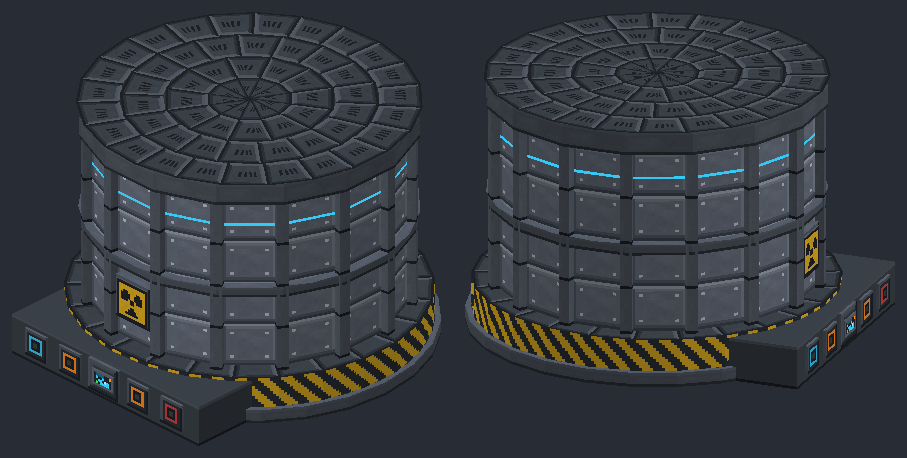
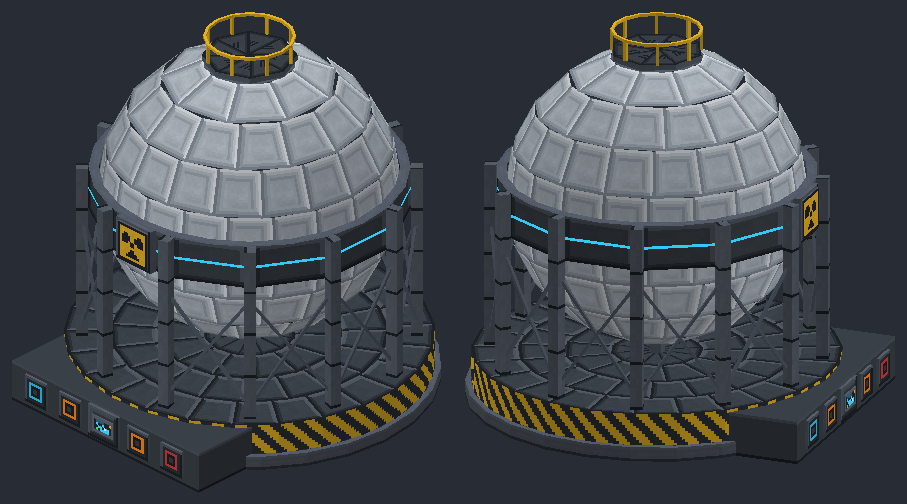
Breeder concept: a steel sphere on braced legs, as Dounreay's fast reactor was housed

diff --git a/art/tools/breeder_concept.py b/art/tools/breeder_concept.py
@@ -1,26 +1,30 @@
 """Concept design of the breeder reactor (design section 9), before the real multiblock exists.
 
-A sodium-cooled fast reactor of the pool type, as most real ones are built: the core sits deep in
-a big round tank of liquid sodium under a thick roof. Sodium is opaque, so unlike the fission
-station there is nothing to see through: this is the sealed, industrial reactor, the station's
-utility twin. For now only the base unit is drawn; what goes on the roof comes next. Drawn as
-smooth quads (quad_design.py) on its own textures (breeder_textures.py). Run:
+A sodium-cooled fast reactor in a steel sphere on legs, as the Dounreay Fast Reactor was housed:
+the core sits in a pool of liquid sodium inside, sealed from the air (sodium burns in it). The
+shape is the refinery's Horton sphere: a sphere of welded plates standing on a ring of legs with
+cross bracing, a girder belt at the equator where the legs meet it, and a railed platform on top.
+Sodium is opaque, so unlike the fission station there is nothing to see through: this is the
+sealed, industrial reactor, the station's utility twin. Drawn as smooth quads (quad_design.py) on
+its own textures (breeder_textures.py). Run:
     python art/tools/breeder_concept.py [OUT.png]
 
-Sizes in blocks: 9 across (centred on the middle of block 4, 4), 5.5 high.
+Sizes in blocks: 9 across (centred on the middle of block 4, 4), about 8 high.
 
-Even textures: every surface shows its texture whole. Panels are sized to their texture (the
-tank's 16 plates meet under its 16 ribs; rings are cut into equal widths), heights are whole
-blocks or have a band texture drawn at their height, and decals (the trefoil, its plaque, the
-bezel) are drawn once at their exact size.
+Even textures: every surface shows its texture whole. The sphere's radius makes each latitude band
+exactly one plate high, and each band has as many plates as keep them near 16 pixels wide, so the
+seams stagger band to band as a welded sphere's do. The belt's panels meet at the legs, heights
+are whole blocks, and decals (the trefoil, its plaque, the bezel) are drawn at their exact size.
 
 What it shows, bottom to top:
 - A graphite plinth with a hazard band, and the console on the front (north), proud of it: as you
   face it, inputs on your left (fuel in, liquid sodium in), outputs on your right (the output port
   for spent fuel and what the blanket bred, energy out), the control core's screen in the middle.
-- The tank (guard vessel): gunmetal plates between ribs, a graphite band, a cyan light strip, and
-  a radiation trefoil on the front.
-- The roof slab: a graphite band round its edge and a deck of plates across its top.
+- Twelve legs from the plinth to the equator, braced in every bay but the front, and a drain line
+  from the sphere's foot to the plinth.
+- The sphere: light casing plates in ten latitude bands, and at its equator a graphite belt with a
+  cyan light strip and the radiation trefoil on the front.
+- A platform on top with a yellow handrail.
 """
 import math
 import os
@@ -34,12 +38,14 @@ from quad_design import Design
 B = 16
 C = 4.5 * B            # centre of the footprint, the middle of block (4, 4)
 PLINTH_R = 62          # the plinth; its lip (2 more) stays behind the console's front
-TANK_R = 54            # the tank (guard vessel) outside
-TANK_TOP = 5 * B       # 80: the tank is four blocks of plates
-ROOF_TOP = TANK_TOP + 8
-ROOF_R = 58
-RIBS = 16
-PHASE = math.radians(360 / RIBS / 2)   # tank seams and ribs sit here, so the front (north) is mid-plate
+BANDS = 10             # latitude bands, pole to pole
+R = BANDS * B / math.pi   # the sphere's radius: each band's arc is exactly one plate (16 pixels)
+EQUATOR = 72           # the equator's height, in the middle of the belt
+BELT = (EQUATOR - 8, EQUATOR + 8)      # the girder belt, a block high
+LEGS = 12
+BELT_R = (R + 1) / math.cos(math.pi / LEGS)   # the belt's corners: flat panels whose middles clear the sphere
+LEG_R = BELT_R + 2     # the legs' circle, on the belt's corners
+PHASE = math.radians(360 / LEGS / 2)   # legs sit on the belt's seams, so the front (north) is mid-panel
 
 TEXTURES = {'breeder_' + name: 'ryzergen:block/breeder/' + name for name in breeder_textures.TEXTURES}
 TEXTURES.update({name: 'ryzergen:block/microreactor/' + name for name in (
@@ -52,13 +58,13 @@ d = Design(C, TEXTURES, {'glow', 'screen'})
 
 
 def band(y, h, r, n=None):
-    """A graphite band `h` high (a lip, a rim), on its own band texture."""
+    """A graphite band `h` high (the plinth's lip), on its own band texture."""
     d.cylinder(f'breeder_band_{h}', y, y + h, r, n=n, v0=0)
 
 
-def plates(mat, y1, y2, r, n=RIBS, phase=PHASE, v0=None):
-    """Like a cylinder, but with `n` panels starting at `phase`: the tank's plates, and the bands
-    that go round it, meet under its ribs."""
+def plates(mat, y1, y2, r, n=LEGS, phase=PHASE, v0=None):
+    """Like a cylinder, but with `n` panels starting at `phase`: the belt's panels meet at the
+    legs."""
     h = y2 - y1
     top = 16 - min(16, h) if v0 is None else v0
     for k in range(n):
@@ -86,25 +92,65 @@ for kind, cell in PORTS:
     else:
         d.box('breeder_fitting', x + 3, 3, FRONT_Z - 1, x + 13, 13, FRONT_Z, decals={'north': kind}, skip=('south',))
 
-# ---------------------------------------------------------------- the tank: a guard vessel round the sodium pool
-for y in range(16, TANK_TOP, B):
-    plates('breeder_vessel', y, y + B, TANK_R)
-# The ribs stand on the plates' seams; the front gap (north) holds the trefoil.
-for k in range(RIBS):
-    d.post('breeder_rib', PHASE + math.radians(k * 360 / RIBS), TANK_R + 1.5, 16, TANK_TOP, 1.5, 2)
-plates('breeder_band_4', 44, 48, TANK_R + 3.2, v0=0)
-d.annulus('breeder_fitting', 48, TANK_R, TANK_R + 3.2)
-d.annulus('breeder_fitting', 44, TANK_R, TANK_R + 3.2, up=False)
-plates('glow', 70, 71, TANK_R + 0.3)
-# The trefoil: a 14 x 14 plaque on a 16 x 16 graphite backing, in the front gap.
-PZ = C - TANK_R - 1
-d.box('breeder_fitting', C - 8, 24, PZ, C + 8, 40, C - TANK_R + 2, decals={'north': 'breeder_plaque'}, skip=('south',))
-d.box('breeder_fitting', C - 7, 25, PZ - 0.5, C + 7, 39, PZ, decals={'north': 'breeder_trefoil'}, skip=('south',))
+# ---------------------------------------------------------------- the sphere, in latitude bands
+def lat_point(lat):
+    """(height, radius from the axis) of the sphere at latitude `lat` (radians)."""
+    return EQUATOR + R * math.sin(lat), R * math.cos(lat)
 
-# ---------------------------------------------------------------- the roof slab
-plates('breeder_band_8', TANK_TOP, ROOF_TOP, ROOF_R, v0=0)
-d.annulus('breeder_deck', ROOF_TOP, 0, ROOF_R, step=ROOF_R / 4)
-d.annulus('breeder_fitting', TANK_TOP, TANK_R, ROOF_R, up=False)
+
+STEP = math.pi / BANDS
+for k in range(1, BANDS - 1):          # the two polar caps are drawn apart
+    lo, hi = -math.pi / 2 + k * STEP, -math.pi / 2 + (k + 1) * STEP
+    (y1, r1), (y2, r2) = lat_point(lo), lat_point(hi)
+    n = max(6, round(2 * math.pi * (r1 + r2) / 2 / B))
+    d.lathe('breeder_shell', [(y1, r1), (y2, r2)], n=n)
+# The caps: under the platform on top, and round the drain at the foot.
+TOP_Y, TOP_R = lat_point(math.pi / 2 - STEP)
+FOOT_Y, FOOT_R = lat_point(-math.pi / 2 + STEP)
+d.lathe('breeder_fitting', [(TOP_Y, TOP_R), (EQUATOR + R, 0)], n=12)
+d.lathe('breeder_fitting', [(EQUATOR - R, 0), (FOOT_Y, FOOT_R)], n=12)
+
+# ---------------------------------------------------------------- the girder belt round the equator
+belt_r = BELT_R
+plates('breeder_plinth', BELT[0], BELT[1], belt_r, n=LEGS)
+for y, up in ((BELT[1], True), (BELT[0], False)):
+    inner = lat_point(math.asin((y - EQUATOR) / R))[1]
+    d.annulus('breeder_fitting', y, inner, belt_r, up=up, n=LEGS * 2)
+plates('glow', EQUATOR - 0.5, EQUATOR + 0.5, belt_r + 0.1, n=LEGS)
+# The trefoil: a 14 x 14 plaque on a 16 x 16 graphite backing, on the belt's front panel.
+PZ = C - belt_r - 1
+d.box('breeder_fitting', C - 8, BELT[0], PZ, C + 8, BELT[1], C - belt_r + 3, decals={'north': 'breeder_plaque'}, skip=('south',))
+d.box('breeder_fitting', C - 7, BELT[0] + 1, PZ - 0.5, C + 7, BELT[1] - 1, PZ, decals={'north': 'breeder_trefoil'}, skip=('south',))
+
+# ---------------------------------------------------------------- legs and bracing
+LEG_TOP = BELT[1]
+for k in range(LEGS):
+    phi = PHASE + 2 * math.pi * k / LEGS
+    d.post('breeder_rib', phi, LEG_R, 16, LEG_TOP, 2, 2)
+# Cross bracing in each bay below the belt, thin rods corner to corner; the front bay (north, 270
+# degrees) is left open, so the console and the trefoil stay clear.
+BRACE = (20, BELT[0] - 4)
+for k in range(LEGS):
+    a, b = PHASE + 2 * math.pi * k / LEGS, PHASE + 2 * math.pi * (k + 1) / LEGS
+    if abs(math.degrees((a + b) / 2) % 360 - 270) < 1:
+        continue
+    mid = (a + b) / 2
+    across = (math.cos(mid), 0, math.sin(mid))
+    for (ya, yb) in ((BRACE[0], BRACE[1]), (BRACE[1], BRACE[0])):
+        path = [d.at(a, LEG_R, ya), d.at(b, LEG_R, yb)]
+        d.sweep('breeder_fitting', path, 0.5, 0.5, lambda i, v=across: v, closed=False, caps=True)
+# The drain line from the sphere's foot to the plinth.
+d.cylinder('breeder_fitting', 16, EQUATOR - R + 1, 3, n=8)
+
+# ---------------------------------------------------------------- the platform on top, with a handrail
+PLAT_R = 16
+PLAT_Y = EQUATOR + R
+d.disc('breeder_deck', PLAT_Y - 2, PLAT_Y, PLAT_R, sides='breeder_fitting', n=8)
+for k in range(8):
+    phi = 2 * math.pi * (k + 0.5) / 8
+    d.post('breeder_rail', phi, PLAT_R - 1, PLAT_Y, PLAT_Y + 7, 0.5, 0.5)
+ring = [d.at(2 * math.pi * k / 16, PLAT_R - 1, PLAT_Y + 7) for k in range(16)]
+d.sweep('breeder_rail', ring, 0.5, 0.5, lambda i: (0, 1, 0))
 
 
 # ---------------------------------------------------------------- picture

diff --git a/art/tools/breeder_textures.py b/art/tools/breeder_textures.py
@@ -2,12 +2,12 @@
 
 Drawn to the house style, and even: every texture is drawn for the shape it goes on, so each
 surface shows it whole, never a plate cut at an edge or squeezed out of shape.
-- Big faces (the tank, the deck, the plinth) are one framed plate per panel: lit along the top
-  and left, shaded at the foot and right. The concept sizes those panels to match: the tank's
-  seams sit under its ribs, and every ring is cut into equal widths.
-- Narrow parts (the ribs) have textures that read the same however narrow the face.
-- Bands shorter than a block (the plinth's lip, the roof's rim) have a texture drawn at their
-  height, band_<h>.
+- Big faces (the sphere, the belt, the deck, the plinth) are one framed plate per panel: lit
+  along the top and left, shaded at the foot and right. The concept sizes those panels to match:
+  each of the sphere's latitude bands is one plate high, and every ring is cut into equal widths.
+- Narrow parts (the legs, the bracing, the handrail) have textures that read the same however
+  narrow the face.
+- Bands shorter than a block (the plinth's lip) have a texture drawn at their height, band_<h>.
 - Decals (the trefoil, the plaque, the bezel) are drawn at their exact size.
 Fills get the soft surface finish (pixelart.publish_finished); lit textures stay crisp.
 
@@ -38,17 +38,17 @@ def plate(fill, lit, lit2, shade, shade2, w=16, h=16):
 
 
 # ---------------------------------------------------------------- big faces: one plate per panel
-def vessel():
-    """The guard vessel's plates, one per rib gap: mid gunmetal, the reactor vessel colour of the
-    house style, with a bolt head in each corner."""
-    t = plate('s', 'h', 'L', 'u', 'z')
-    for x, y in ((3, 3), (12, 3), (3, 12), (12, 12)):
-        t.set(x, y, 'H')
+def shell():
+    """The sphere's plates: light casing, as spheres like it are painted, a framed plate per
+    panel with a shallow inset, lit along the top and left."""
+    t = plate('F', 'A', 'E', 'I', 'J')
+    t.rect(3, 3, 12, 3, 'I')
+    t.rect(3, 3, 3, 12, 'I')
     return t
 
 
 def deck():
-    """The roof slab's deck plates: graphite, with a row of grating slots across the middle."""
+    """The platform's deck plates: graphite, with a row of grating slots across the middle."""
     t = plate('S', 'M', 'b', 'T', 'U')
     for x in range(4, 12, 2):
         t.rect(x, 6, x, 9, 'U')
@@ -62,8 +62,8 @@ def plinth():
 
 # ---------------------------------------------------------------- narrow parts and bands
 def rib():
-    """An upright rib on the tank, a few pixels wide: lit edge, face, shadowed edge across it (so
-    each face of the rib reads the same), and a joint at each block of height."""
+    """A leg, a few pixels wide: lit edge, face, shadowed edge across it (so each face of the leg
+    reads the same), and a joint at each block of height."""
     t = Tex()
     for x in range(16):
         t.rect(x, 0, x, 15, 'M' if x < 5 else 'b' if x < 11 else 'T')
@@ -76,6 +76,13 @@ def fitting():
     size shows it evenly."""
     t = Tex()
     t.rect(0, 0, 15, 15, 'u')
+    return t
+
+
+def rail():
+    """The platform's handrail and posts: safety yellow, plain, so any length shows it evenly."""
+    t = Tex()
+    t.rect(0, 0, 15, 15, 'Y')
     return t
 
 
@@ -120,14 +127,15 @@ def bezel():
     return plate('S', 'M', 'b', 'T', 'U', 14, 12)
 
 
-BANDS = (4, 5, 8)
+BANDS = (5,)
 
 TEXTURES = {
-    'vessel': vessel,
+    'shell': shell,
     'deck': deck,
     'plinth': plinth,
     'rib': rib,
     'fitting': fitting,
+    'rail': rail,
     'trefoil': trefoil,
     'plaque': plaque,
     'bezel': bezel,

diff --git a/docs/DESIGN.md b/docs/DESIGN.md
@@ -382,11 +382,14 @@ Real basis: every pass through a thermal reactor builds up heavier plutonium iso
 6. **Spent breeder fuel closes the loop:** it goes back through the pyroprocessor into transuranic metal and fission waste, so a breeder can keep itself fuelled once started. Real basis: fast reactor fuel cycles are designed to close this way (settled 30 Sep 2026).
 
 ### Shape (concept, 30 Sep 2026)
-Concept in `art/tools/breeder_concept.py` (textures `breeder_textures.py`, render `art/concepts/breeder.png`). A pool-type sodium fast reactor, as most real ones are built: 9 blocks across. The base unit is drawn (5.5 blocks high); what stands on its roof is designed next, building up from it. A first pass at the roof (rotating plugs, control rod drives, pumps, heat exchangers and pipes, with moving parts) was set aside on 30 Sep 2026 to start again from the base; it is in git history if any of it comes back.
-- **Sealed, not seen through.** The core sits deep in a round tank of liquid sodium, which is opaque, so there is no glass: the station is the reactor you watch, the breeder the one you run. A gunmetal guard vessel of 16 plates with a rib on every seam, a graphite band, a cyan light strip and a radiation trefoil on the front (multiblocks may carry one).
-- **The roof slab:** a graphite rim and a deck of plates, ready for the machinery that works the reactor, which real pool-type plants carry on the roof.
+Concept in `art/tools/breeder_concept.py` (textures `breeder_textures.py`, render `art/concepts/breeder.png`). 9 blocks across and about 8 high.
+- **A steel sphere on legs.** Real basis: the Dounreay Fast Reactor, a sodium-cooled fast breeder, was housed in a great steel sphere, and the shape is the refinery's Horton sphere: welded plates standing on a ring of legs with cross bracing. The core sits in a pool of liquid sodium inside, sealed from the air.
+- **Sealed, not seen through.** Sodium is opaque, so there is no glass: the station is the reactor you watch, the breeder the one you run. Light casing plates in ten latitude bands, their seams staggered band to band as a welded sphere's are.
+- **The girder belt** at the equator, where the 12 legs meet the sphere: graphite, with a cyan light strip and the radiation trefoil on the front (multiblocks may carry one). The legs are braced in every bay but the front, which stays open so the console and trefoil read.
+- **A railed platform on top** (a yellow handrail), and a drain line from the sphere's foot to the plinth.
 - **The console** on the front, proud of the plinth: as you face it, fuel in and liquid sodium in on the left, the output port (spent fuel and what the blanket bred) and energy out on the right, the control core's screen in the middle.
-- **Even textures:** every panel sized to its texture, heights in whole blocks or on band textures drawn at their height, decals at their exact size.
+- **Even textures:** the sphere's radius makes each latitude band exactly one plate high, each band has as many plates as keep them near 16 pixels wide, the belt's panels meet at the legs, and decals are drawn at their exact size.
+- Earlier passes (a round tank with its machinery on the roof, then the tank alone) were set aside on 30 Sep 2026; they are in git history.
 
 ### How the tiers tie together
 - Uranium station: uranium rods become spent rods, which reprocess into plutonium for MOX.

diff --git a/docs/ROADMAP.md b/docs/ROADMAP.md
@@ -135,8 +135,8 @@ The first public build: the microreactor, home battery, pipes and steam, the fue
 ## Milestone 3b: Breeder reactor (tier 4, design section 9)
 The utility reactor: fuel for the stations and the tritium that starts fusion. Fusion needs it.
 - [x] Settle the breeder's open questions (30 Sep 2026): the blanket is a ring in the planning grid; spent breeder fuel closes the loop; sodium is an ingot and a liquid coolant; tritium is a gas; the pyroprocessor is the Electrorefiner; americium and curium stay in transuranic metal
-- [x] Concept, base unit (`art/tools/breeder_concept.py`, textures `breeder_textures.py`): a sealed pool-type tank 9 across, the console proud of the plinth, even textures
-- [ ] Concept, the roof: the machinery that works the reactor, built up from the base, and an animation somewhere on it
+- [x] Concept (`art/tools/breeder_concept.py`, textures `breeder_textures.py`): a steel sphere on 12 braced legs, as Dounreay's fast reactor was housed, with a girder belt at the equator, a railed platform on top, the console proud of the plinth; even textures
+- [ ] Concept, still to do: an animation somewhere on it, and anything more it needs (a stair up to the platform, the sodium loops)
 - [x] Electrorefiner (behind `preview.next_tier`): one molten salt cell, gated at 1,500 FE/t. Spent MOX and salt into transuranic metal, a uranium ingot and fission waste (30 s); salt alone into a sodium ingot (10 s). Sodium ingot and transuranic metal items
 - [ ] Liquid sodium, melted from the ingot, for the breeder's loop
 - [ ] Electrorefiner sound: an electrical hum from a recording (it borrows the turbine's drone for now)
